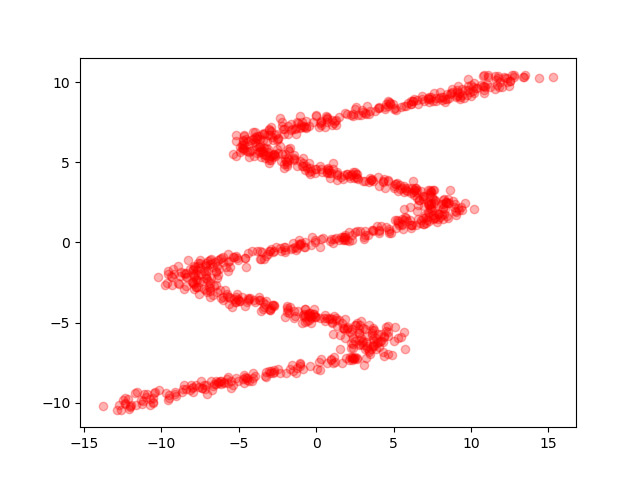
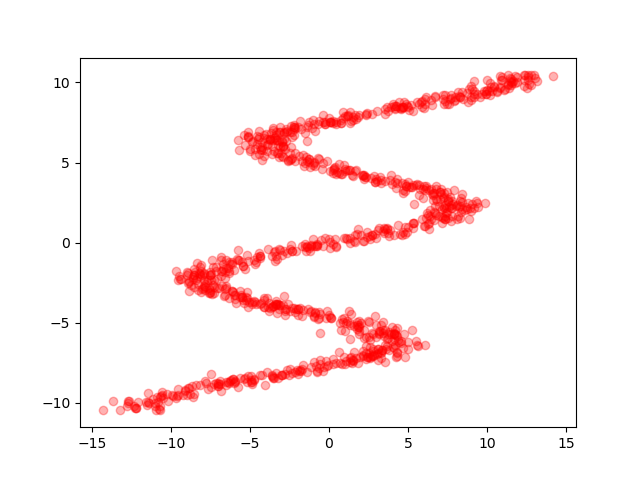
Add an option to specify random seed

diff --git a/train.py b/train.py
@@ -2,6 +2,7 @@
 # -*- coding: utf-8 -*-
 
 import argparse
+import random
 
 import chainer
 from chainer import optimizers
@@ -9,7 +10,6 @@ import matplotlib.pyplot as plt
 import numpy as np
 
 import mdn
-
 
 if __name__ == '__main__':
     parser = argparse.ArgumentParser()
@@ -19,11 +19,19 @@ if __name__ == '__main__':
     parser.add_argument('--hidden-units', '-u', type=int, default=24)
     parser.add_argument('--gaussian-mixtures', '-m', type=int, default=24)
     parser.add_argument('--epoch', '-e', type=int, default=10000)
+    parser.add_argument('--seed', '-s', type=int, default=0)
     args = parser.parse_args()
 
-    y_data = np.float32(np.random.uniform(-10.5, 10.5, (args.n_samples, args.input_dim)))
+    random.seed(args.seed)
+    np.random.seed(args.seed)
+    if args.gpu >= 0:
+        chainer.backends.cuda.cupy.random.seed(args.seed)
+
+    y_data = np.float32(np.random.uniform(-10.5, 10.5,
+                                          (args.n_samples, args.input_dim)))
     noise = np.random.normal(size=(args.n_samples, args.input_dim))
-    x_data = np.float32(np.sin(0.75 * y_data) * 7.0 + y_data * 0.5 + noise * 1.0)
+    x_data = np.float32(np.sin(0.75 * y_data) * 7.0 +
+                        y_data * 0.5 + noise * 1.0)
 
     # Plot the target data
     plt.scatter(x_data, y_data, c='r', alpha=0.3)
@@ -51,7 +59,8 @@ if __name__ == '__main__':
         optimizer.update()
         loss_history.append(float(loss.array))
         if epoch % 100 == 0:
-            print('epoch:', epoch, 'iteration:', iteration, 'loss:', float(loss.array))
+            print('epoch:', epoch, 'iteration:',
+                  iteration, 'loss:', float(loss.array))
         iteration += 1
 
     # Plot results
